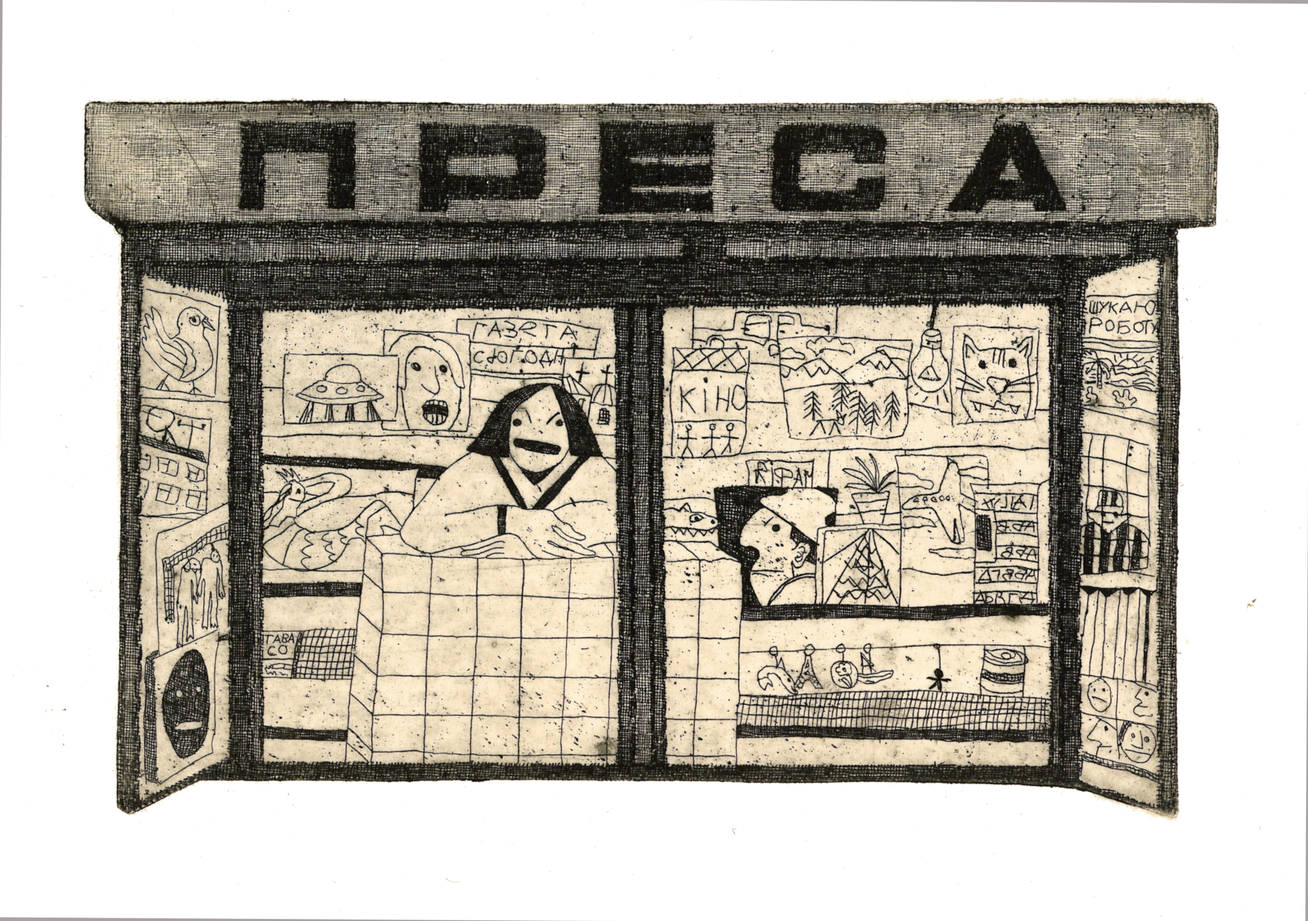
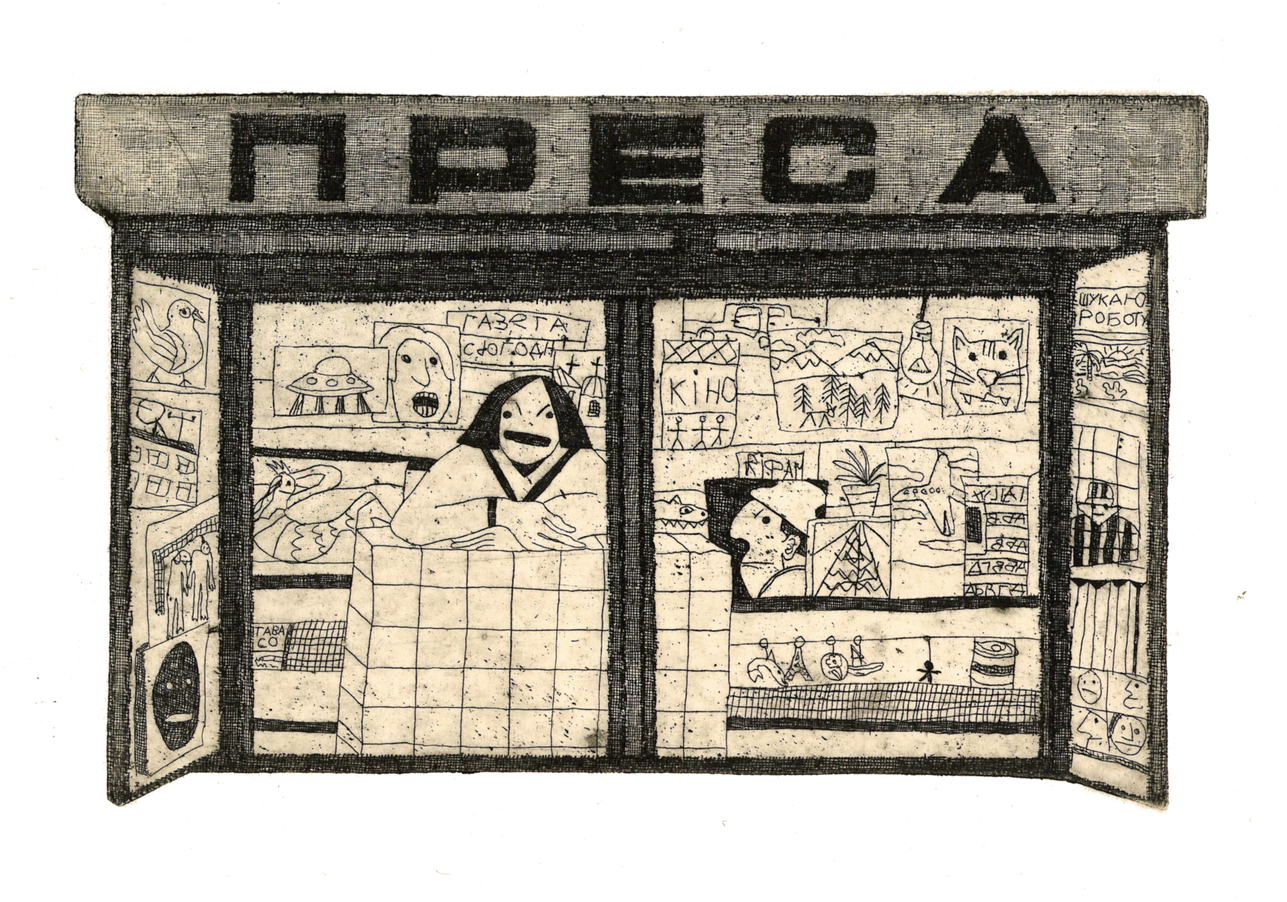
shops

diff --git a/works/shops.html b/works/shops.html
@@ -47,8 +47,8 @@
         <img src="../images/shops/3.jpg" alt="image">
       </a>
 
-      <a href="../images/shops/04.jpg" class="swipebox" title="Anna Khodkova, Kristina Yarosh, etching, 23x16 cm, 2020">
-        <img src="../images/shops/04.jpg" alt="image">
+      <a href="../images/shops/4.jpg" class="swipebox" title="Anna Khodkova, Kristina Yarosh, etching, 23x16 cm, 2020">
+        <img src="../images/shops/4.jpg" alt="image">
       </a>
 
       <a href="../images/shops/5.jpg" class="swipebox" title="Anna Khodkova, Kristina Yarosh, etching, 19x14 cm, 2020">
